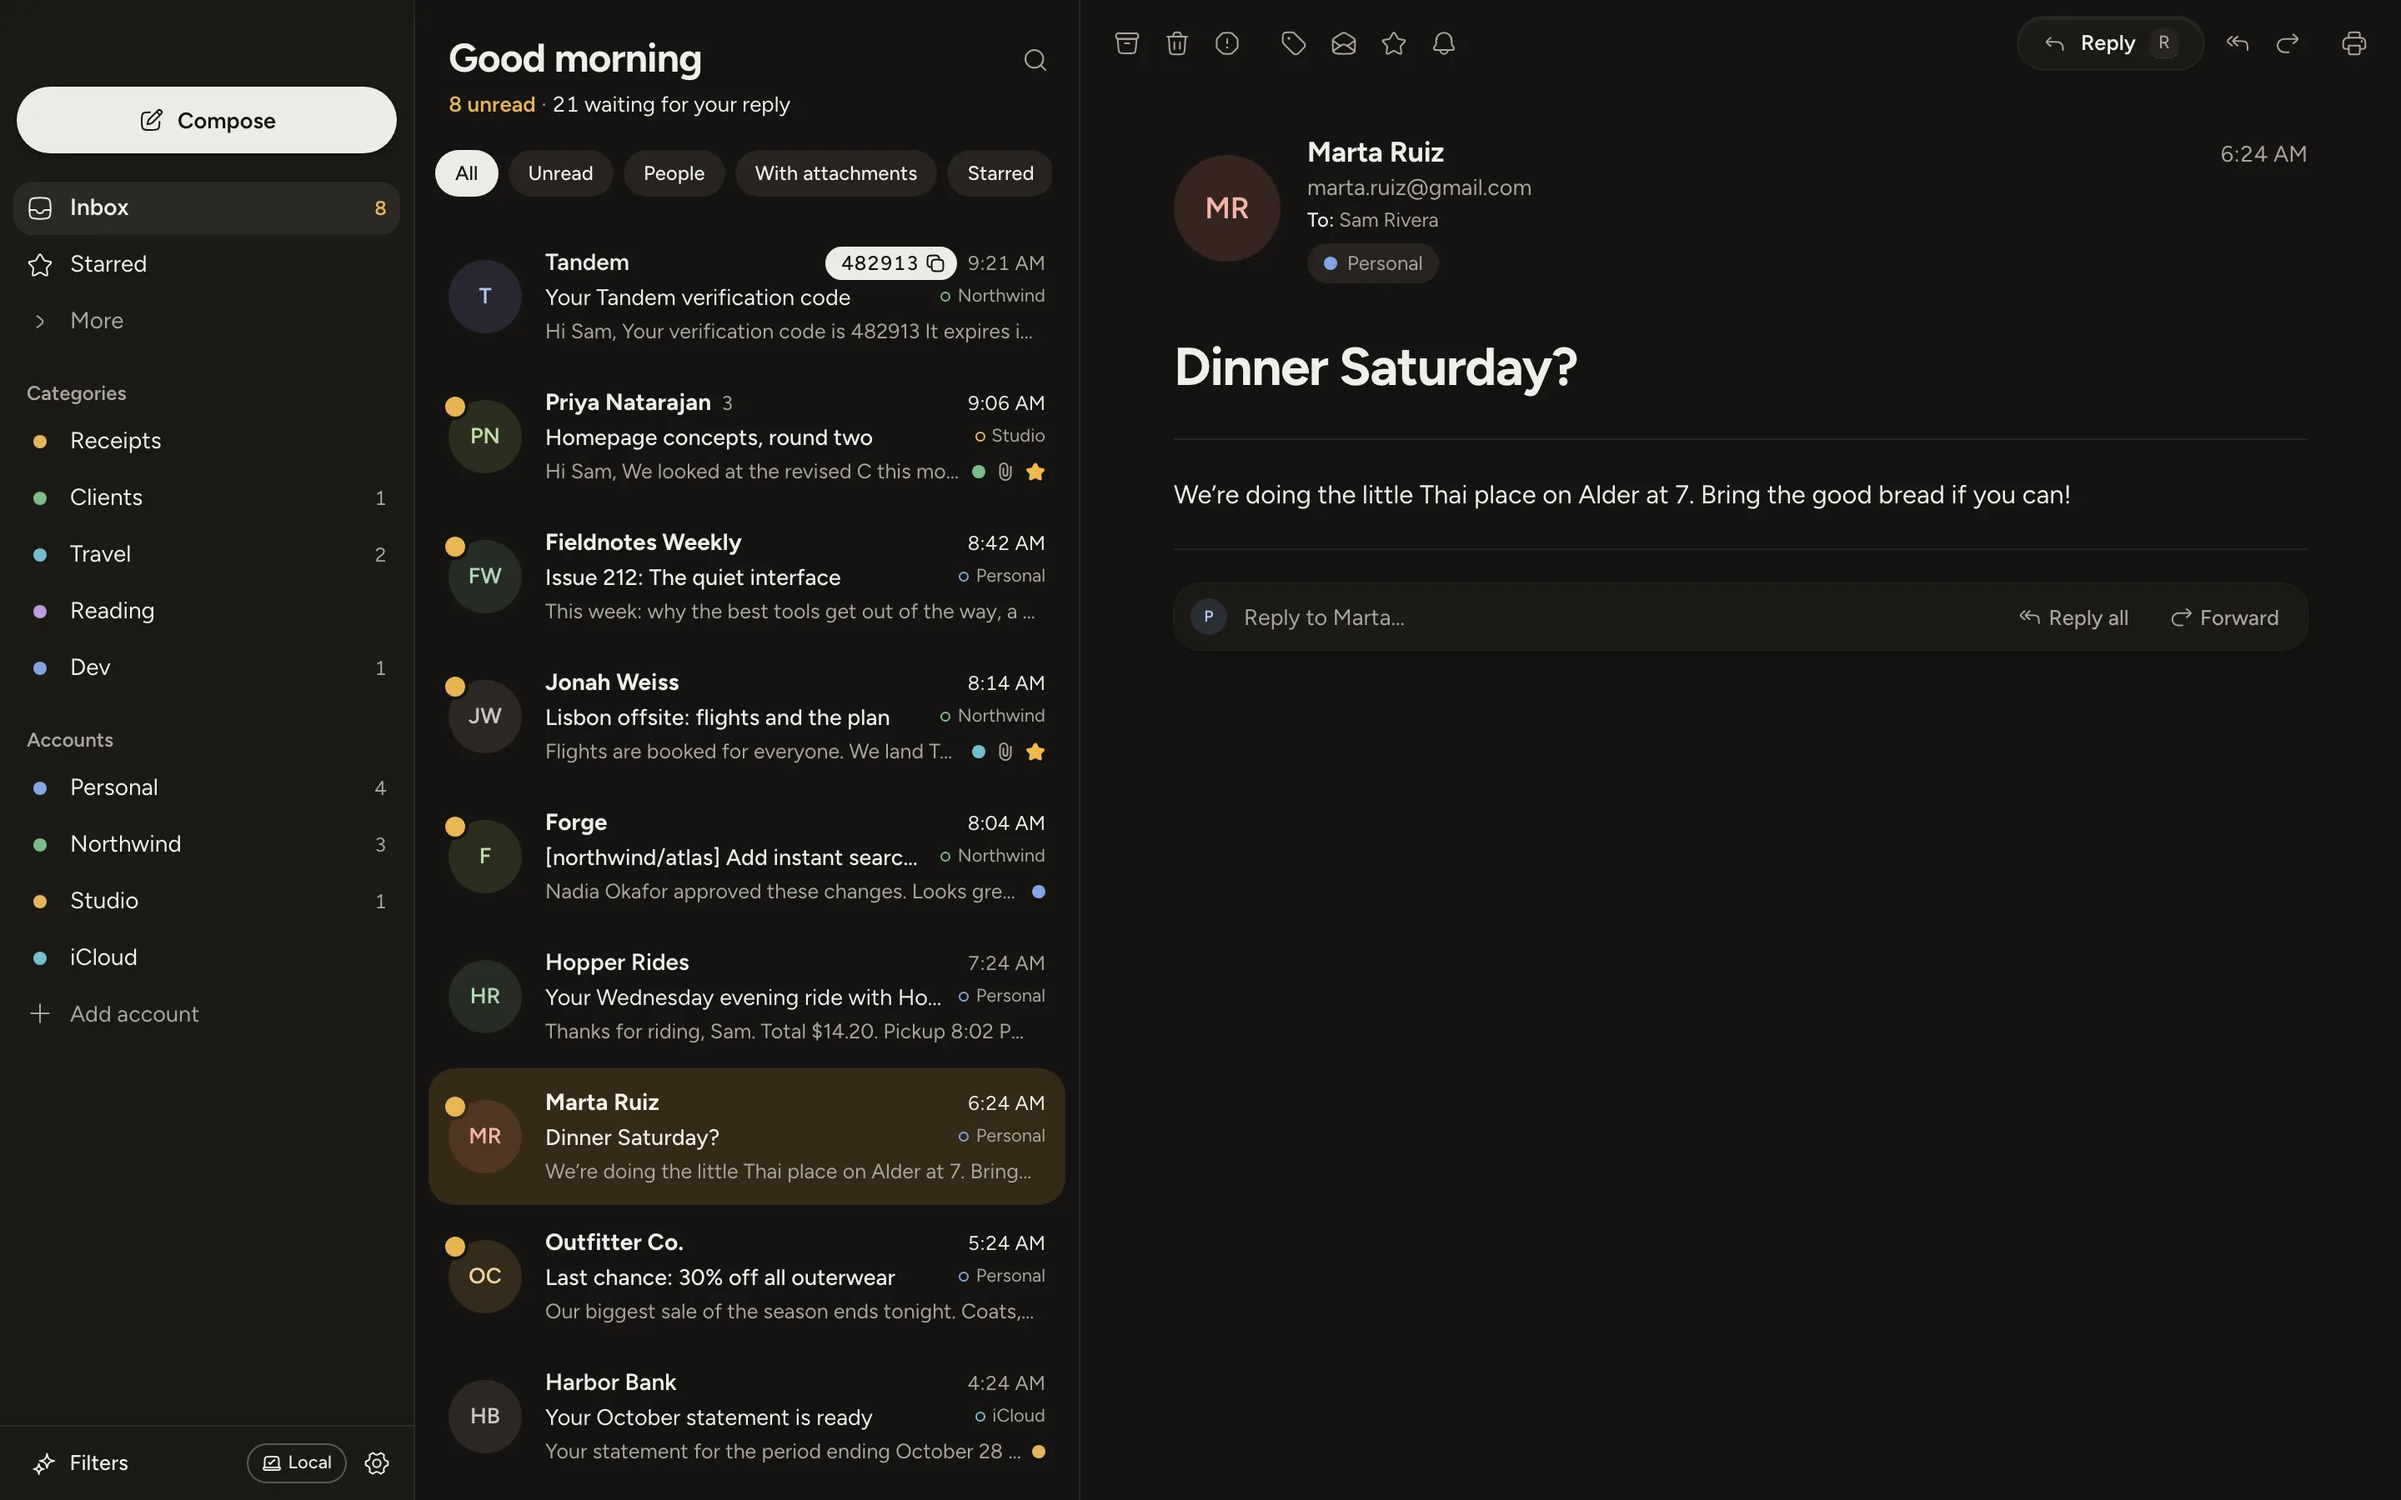
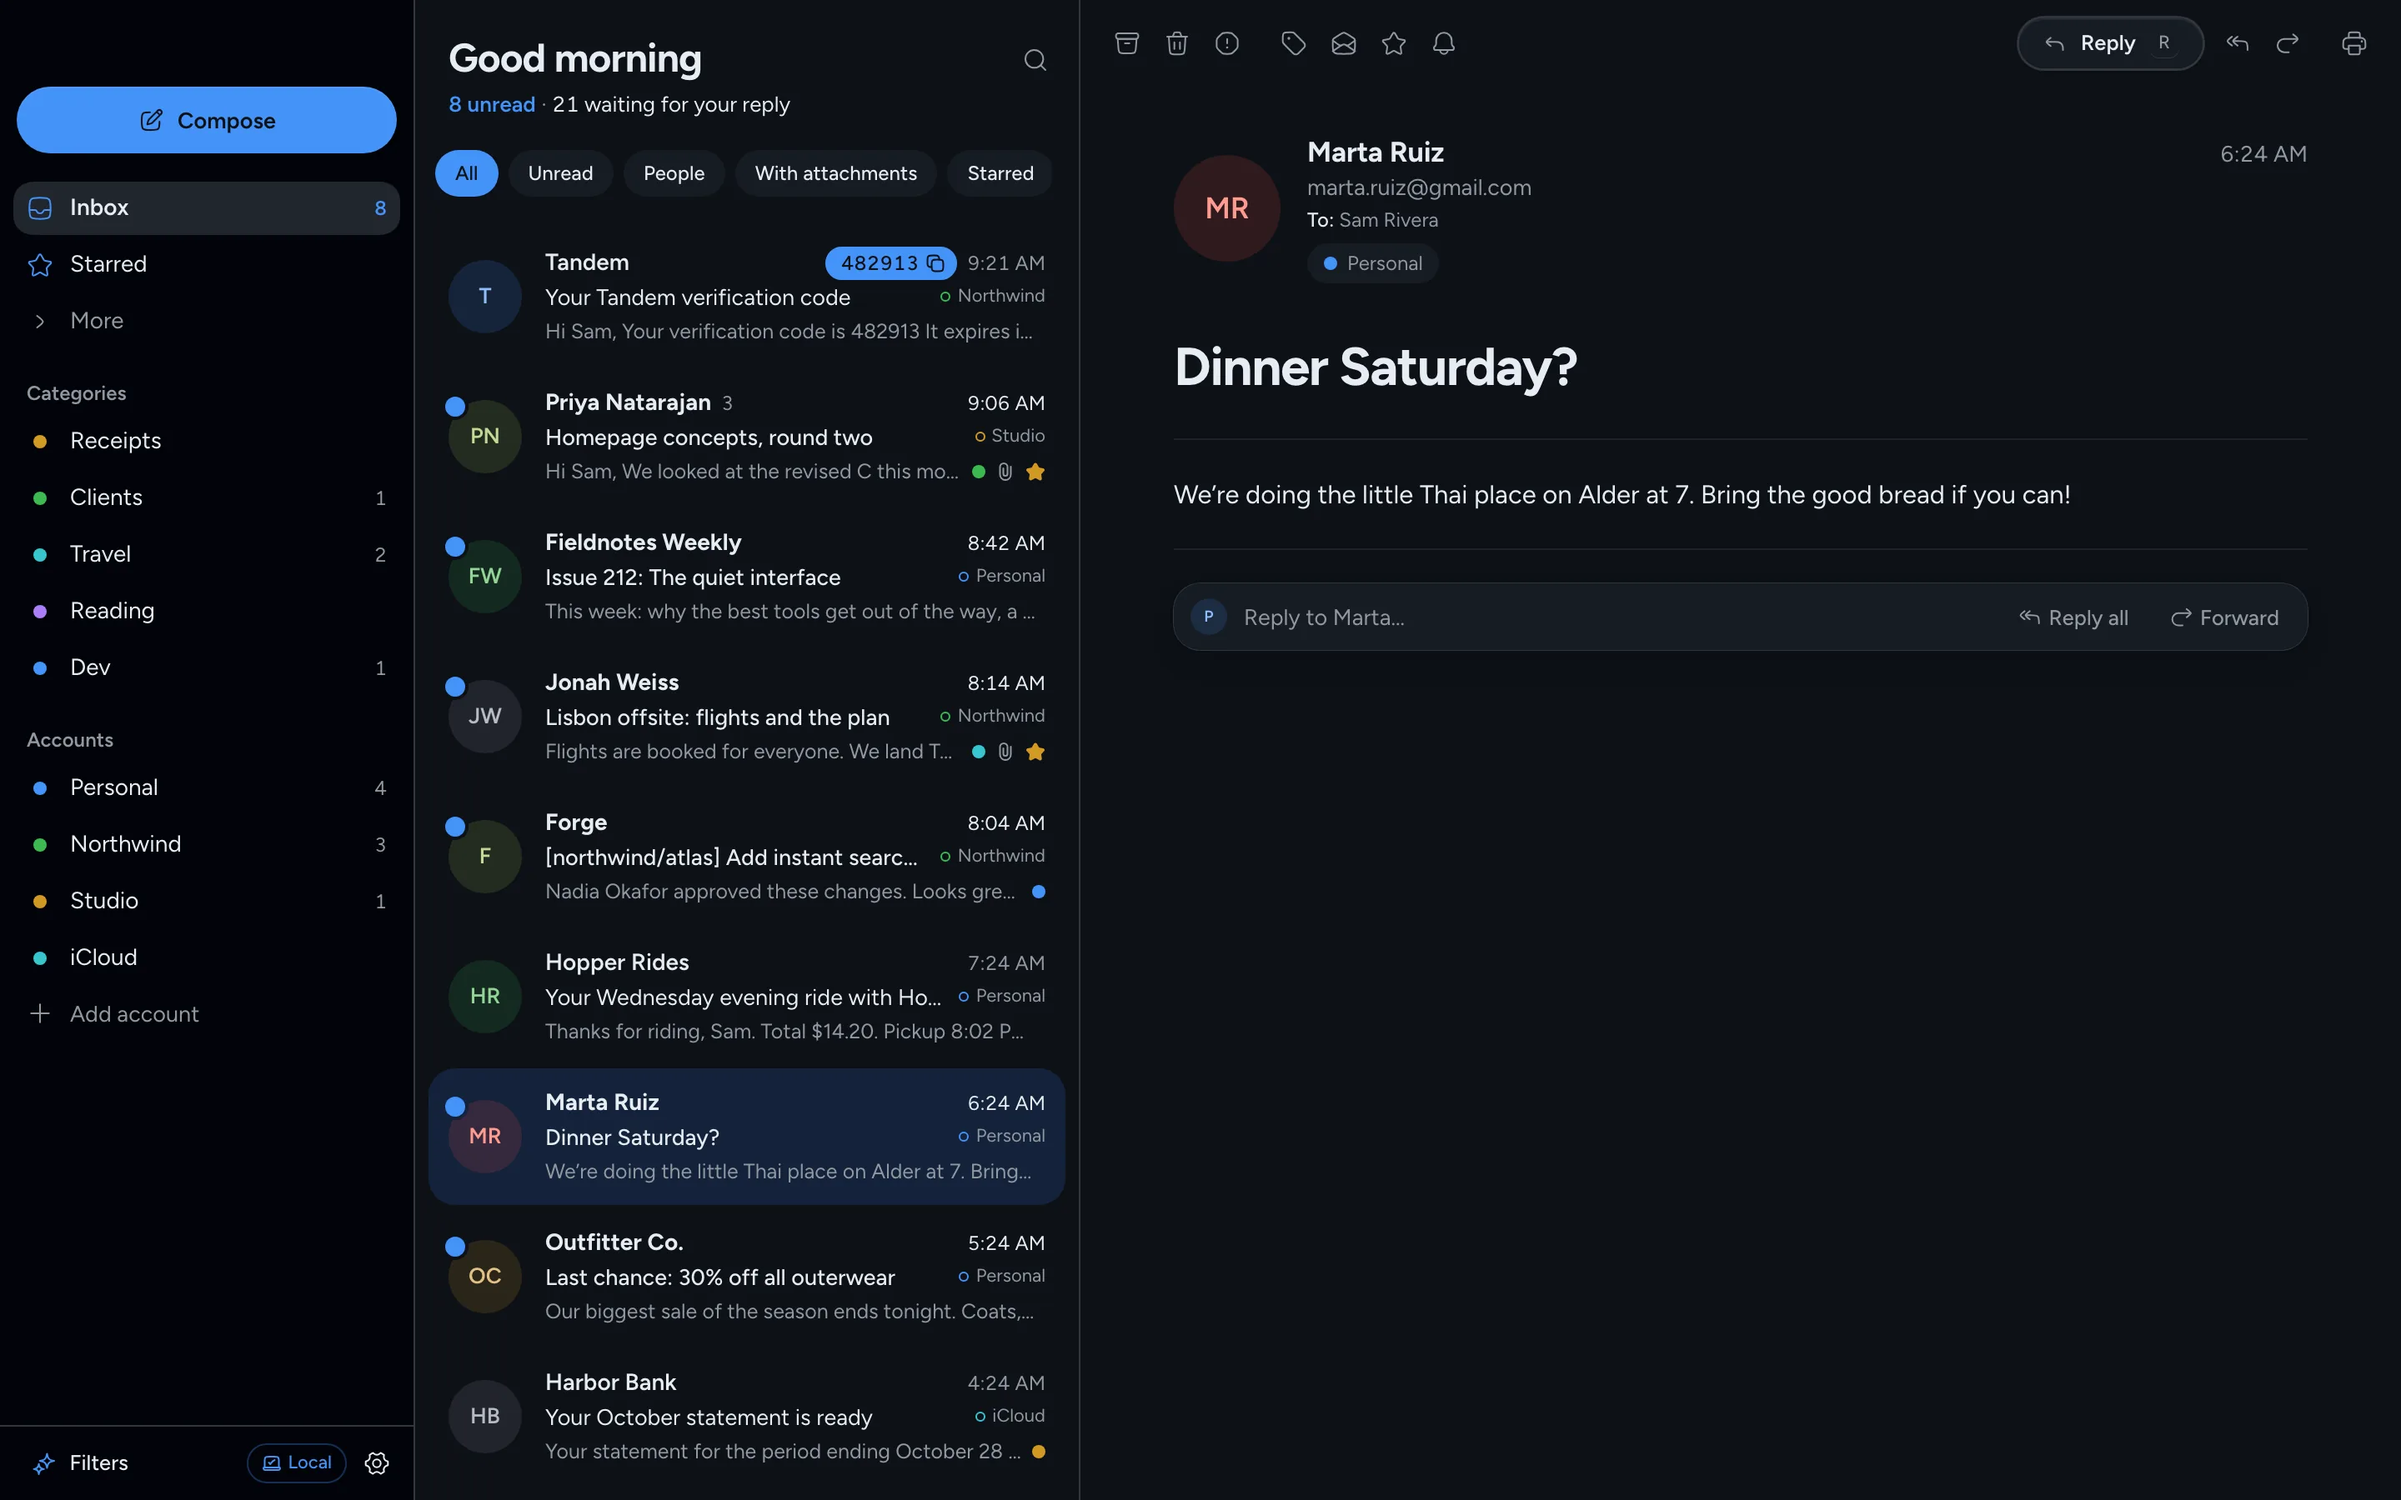
feat(plan 96): dark pictures in Lumen with GitHub Dark; 18 palettes in the copy

Changed region(s): [[0.0, 0.0, 0.4688, 1.0], [0.3438, 0.1556, 0.4062, 0.1867]]

diff --git a/apps/site/shots/shots.ts b/apps/site/shots/shots.ts
@@ -187,8 +187,8 @@ async function main() {
         try {
           execFileSync("cp", ["-R", `${template}/.`, dir]);
           server = await startDevServer({ port: 0, dataDir: dir, token: "shots", autoSync: false, now: () => SHOWCASE_NOW });
-          // the feature shots are Lumen; in light mode with the GitHub light palette (plan 96)
-          const palette = shot.palette ?? (shot.design ? {} : { light: "github-light" });
+          // the feature shots are Lumen with the GitHub palettes, light and dark (plan 96)
+          const palette = shot.palette ?? (shot.design ? {} : { light: "github-light", dark: "github-dark" });
           const settings = { design: shot.design ?? "lumen", theme: mode, localMode: true, senderIcons: false, motionMs: 0, ...(palette.light && { lightTheme: palette.light }), ...(palette.dark && { darkTheme: palette.dark }) };
           await server.backend.server.invoke("settings.update", settings as never, ctx);
           const backendPort = new URL(server.url).port;

diff --git a/apps/site/src/copy/es.ts b/apps/site/src/copy/es.ts
@@ -60,7 +60,7 @@ export const es: SiteCopy = {
     },
     themes: {
       kicker: "Diseños y colores",
-      title: "Tres diseños. Diecisiete paletas.",
+      title: "Tres diseños. Dieciocho paletas.",
       body: "Elige un diseño para la forma de la app (Lumen cálido, Atelier editorial o macOS al estilo de Apple Mail) y cualquier tema de color encima, de Solarized a Dracula. O trae el tuyo.",
       points: ["Claro y oscuro en todos", "Todos revisados en contraste", "Animaciones que puedes reducir o quitar"],
     },
@@ -103,7 +103,7 @@ export const es: SiteCopy = {
   stats: [
     { value: "Al instante", label: "búsqueda en todas tus cuentas" },
     { value: "0", label: "servidores de Terno entre tú y tu correo" },
-    { value: "17", label: "temas de color, en tres diseños" },
+    { value: "18", label: "temas de color, en tres diseños" },
   ],
   closing: {
     title: "Recupera tu bandeja de entrada.",

diff --git a/apps/site/src/copy/en.ts b/apps/site/src/copy/en.ts
@@ -59,7 +59,7 @@ export const en = {
     },
     themes: {
       kicker: "Designs and colors",
-      title: "Three designs. Seventeen palettes.",
+      title: "Three designs. Eighteen palettes.",
       body: "Pick a design for the shape of the app (warm Lumen, editorial Atelier or Apple-Mail-like macOS) and any color theme on top, from Solarized to Dracula. Or bring your own.",
       points: ["Light and dark in every one", "All checked for contrast", "Motion you can turn down or off"],
     },
@@ -102,7 +102,7 @@ export const en = {
   stats: [
     { value: "Instant", label: "search across every account" },
     { value: "0", label: "Terno servers between you and your mail" },
-    { value: "17", label: "color themes, in three designs" },
+    { value: "18", label: "color themes, in three designs" },
   ],
   closing: {
     title: "Take back your inbox.",

diff --git a/docs/plans/96-terno-site.md b/docs/plans/96-terno-site.md
@@ -142,3 +142,4 @@ Codex reviewed `af09e9e6..610a2284` and raised 7 points; all are fixed, each wit
 ### What the Codex review of the second round changed
 
 Five points, all fixed with tests (`e2e/site.spec.ts`): the tools move in to the visible part of a frame wider than the screen (Lumen's hero on a phone); the hero's two modes are both lazy so only the shown one downloads (a network assertion); Midnight's inactive switch stays light on hover; the interaction test scrolls the picture, not its box-less wrapper; previews are checked for a 200 and `noindex`, and the dropped designs for a 404.
+- Third round: the feature pictures are Lumen with **GitHub light** and a new **GitHub Dark** palette (`packages/ui/src/themes/registry.ts`, now 18 palettes). GitHub's button blue (#1f6feb) with white text reads at 4.1:1 as text on its canvas, below AA, so GitHub Dark's primary is GitHub's link blue (#4493f8) with dark text on buttons, as every dark palette does.
